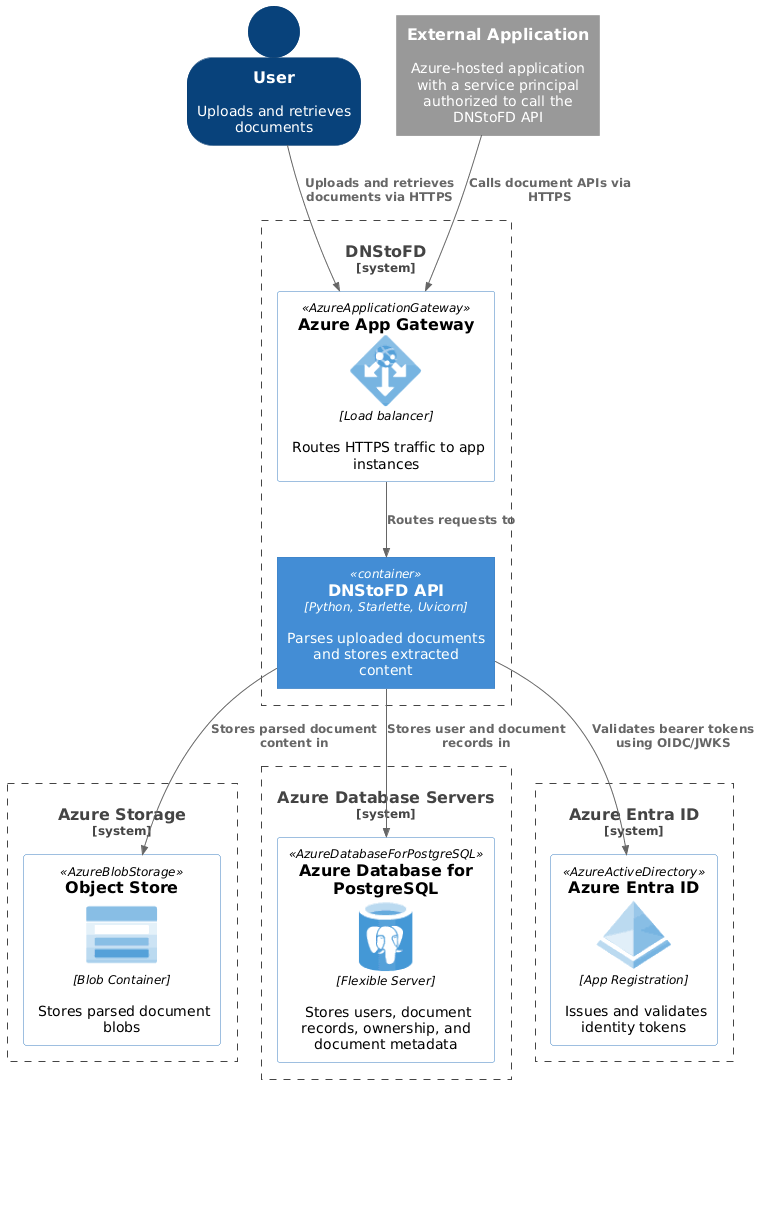
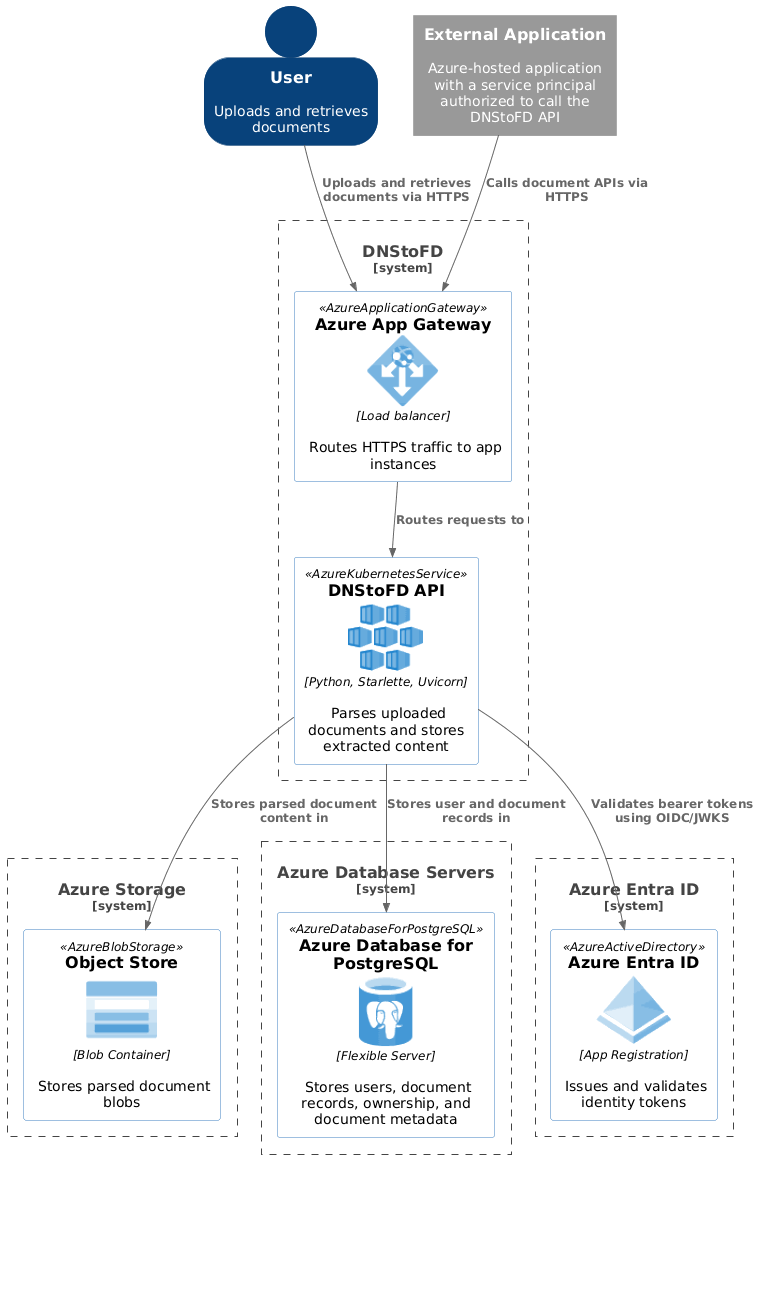
update

Changed region(s): [[0.2188, 0.0, 0.9688, 0.8974], [0.0312, 0.6189, 0.3125, 0.8664]]

diff --git a/dns-to-fd/src/dns_to_fd/api/v1/controllers/document_controller.py b/dns-to-fd/src/dns_to_fd/api/v1/controllers/document_controller.py
@@ -27,11 +27,14 @@ document_repo = DocumentRepository(Document)
 user_repo = UserRepository(User)
 
 
-def make_add_document(parser: Parser, store: ObjectStore) -> Callable[[Request], Awaitable[JSONResponse]]:
+_stores: list[ObjectStore] = []
+
+def make_add_document(parser: Parser) -> Callable[[Request], Awaitable[JSONResponse]]:
     async def add_document(request: Request) -> JSONResponse:
         async with request.form(max_files=1000, max_fields=1000, max_part_size=1024 * 1024) as form_data:
             user_id = request.path_params["user_id"]
-
+            store = create_obj_store()
+            _stores.append(store)
             claims = await get_entra_id_claims(request)
             if Role.USER.value not in claims.roles:
                 raise HTTPException(
@@ -148,11 +151,14 @@ async def get_document(request: Request) -> JSONResponse:
             }
         )
 
-def make_delete_document(object_store: ObjectStore) -> Callable[[Request], Awaitable[Response]]:
+def make_delete_document() -> Callable[[Request], Awaitable[Response]]:
     async def delete_document(request: Request) -> Response:
         async with request.form(max_files=1000, max_fields=1000, max_part_size=1024 * 1024):
             user_id = request.path_params["user_id"]
             document_id = request.path_params["document_id"]
+            object_store = create_obj_store()
+
+            _stores.append(object_store)
 
             claims = await get_entra_id_claims(request)
             if Role.USER.value not in claims.roles:
@@ -175,22 +181,26 @@ def make_delete_document(object_store: ObjectStore) -> Callable[[Request], Await
     return delete_document
 
 parser = PDFParser()
-object_store = AzureBlobStorage(
-    config={
-        "connection_string": app_settings.blob_storage_connection_string,
-        "credential": ClientSecretCredential(
-            tenant_id=app_settings.azure_tenant_id,
-            client_id=app_settings.azure_client_id,
-            client_secret=app_settings.azure_client_secret,
-        ),
-    },
-    folder_name="dns-to-fd",
-)
+
+def create_obj_store():
+
+    object_store = AzureBlobStorage(
+        config={
+            "connection_string": app_settings.blob_storage_connection_string,
+            "credential": ClientSecretCredential(
+                tenant_id=app_settings.azure_tenant_id,
+                client_id=app_settings.azure_client_id,
+                client_secret=app_settings.azure_client_secret,
+            ),
+        },
+        folder_name="dns-to-fd",
+    )
+    return object_store
 
 routes = [
     Route(
         "/users/{user_id}/documents/",
-        make_add_document(parser, object_store),
+        make_add_document(parser),
         methods=("POST",),
     ),
     Route(
@@ -200,7 +210,7 @@ routes = [
     ),
     Route(
         "/users/{user_id}/documents/{document_id}",
-        make_delete_document(object_store),
+        make_delete_document(),
         methods=("DELETE",),
     ),
     # Route(

diff --git a/dns-to-fd/src/dns_to_fd/settings.py b/dns-to-fd/src/dns_to_fd/settings.py
@@ -2,7 +2,7 @@ from pydantic_settings import BaseSettings, SettingsConfigDict
 
 
 class AppSettings(BaseSettings):
-    model_config = SettingsConfigDict(extra="ignore", env_file=".env.azure")
+    model_config = SettingsConfigDict(extra="ignore", env_file=".env.local")
 
     db_connection_string: str
     blob_storage_connection_string: str | None = None

diff --git a/dns-to-fd/README.md b/dns-to-fd/README.md
@@ -29,6 +29,9 @@ We want to create a small application that parses PDFs and stores its content fo
 ## Networking
 
 1. Virtual Network Boundary for the Kubernetes Cluster
+
+   ![C4 container diagram with Azure networking](docs/diagrams/with-networking/c4container.png)
+
 2. How many subnets do we need?
    - Subnet for AKS cluster
    - Subnet for App Gateway (Ingress)
@@ -41,7 +44,12 @@ We want to create a small application that parses PDFs and stores its content fo
    - kubectl ...
 2. Deploy the application within pods
 3. Creating Service Endpoints and restricting public network access
+
+   ![C4 container diagram with service endpoints](docs/diagrams/with-service-endpoints/c4container.png)
+
 4. Creating Private Endpoints and restricting traffic to the network
+
+   ![C4 container diagram with private endpoints](docs/diagrams/with-private-endpoints/c4container.png)
 
 ## Deep Dives
 
@@ -51,27 +59,35 @@ We want to create a small application that parses PDFs and stores its content fo
 
      .
      └── com
-     └── example.com
-     ├── www.example.com
-     ├── api.example.com
-     └── dev.example.com
-   - Zone: managed slice of that tree, say, example.com with DNS records:
-     example.com        A      93.184.216.34 (IPv4)
-     example.com        AAAA   2001:503:83eb::30 (IPv6)
-     www.example.com    CNAME  example.com
-     api.example.com    A      10.0.1.20
-     example.com        MX     mail.example.com
+         └── example.com
+             ├── www.example.com (CNAME)
+             ├── api.example.com (subdomain)
+             └── dev.example.com (subdomain)
+     - Zone: managed slice of that tree, say, example.com with DNS records:
+           example.com        A      93.184.216.34 (IPv4)
+           example.com        AAAA   2001:503:83eb::30 (IPv6)
+           www.example.com    CNAME  example.com
+           api.example.com    A      10.0.1.20
+           example.com        MX     mail.example.com
    - Nameserver: a server authoritative for the zone (contains records for it)
    - DNS Primer via `nslookup`: from DNS zone of top-level domain to subdomain zones
    - Resolution of azure storage and azure postgres flexible servers
 2. AKS Overview
 
-   - [L4 load balancer](![aks-with-l4.png](docs/diagrams/aks/aks-with-l4.png))
+   - L4 load balancer
+
+     ![AKS with L4 load balancer](docs/diagrams/aks/aks-with-l4.png)
+
      - Backend Pool points to all the worker nodes
      - Kube Proxy is aware of Frontend IP to Service IP mapping
      - Service routes to pods
-   - [L7 Ingress](docs/diagrams/aks/aks-with-l7-ingress.png): https://gateway-api.sigs.k8s.io/guides/getting-started/introduction/)
-   - [L7 with App Gateway](![aks-with-l7-appgw.png](docs/diagrams/aks/aks-with-l7-appgw.png))
+   - L7 Ingress: https://gateway-api.sigs.k8s.io/guides/getting-started/introduction/
+
+     ![AKS with L7 ingress](docs/diagrams/aks/aks-with-l7-ingress.png)
+
+   - L7 with App Gateway
+
+     ![AKS with L7 App Gateway](docs/diagrams/aks/aks-with-l7-appgw.png)
 3. App Gateway Overview
 4. Extending VNet identity via Service Endpoints (without DNS changes): https://learn.microsoft.com/en-us/azure/virtual-network/virtual-network-service-endpoints-overview
 5. Containing traffic within a VNet using Private Endpoints (renewed DNS resolution)
